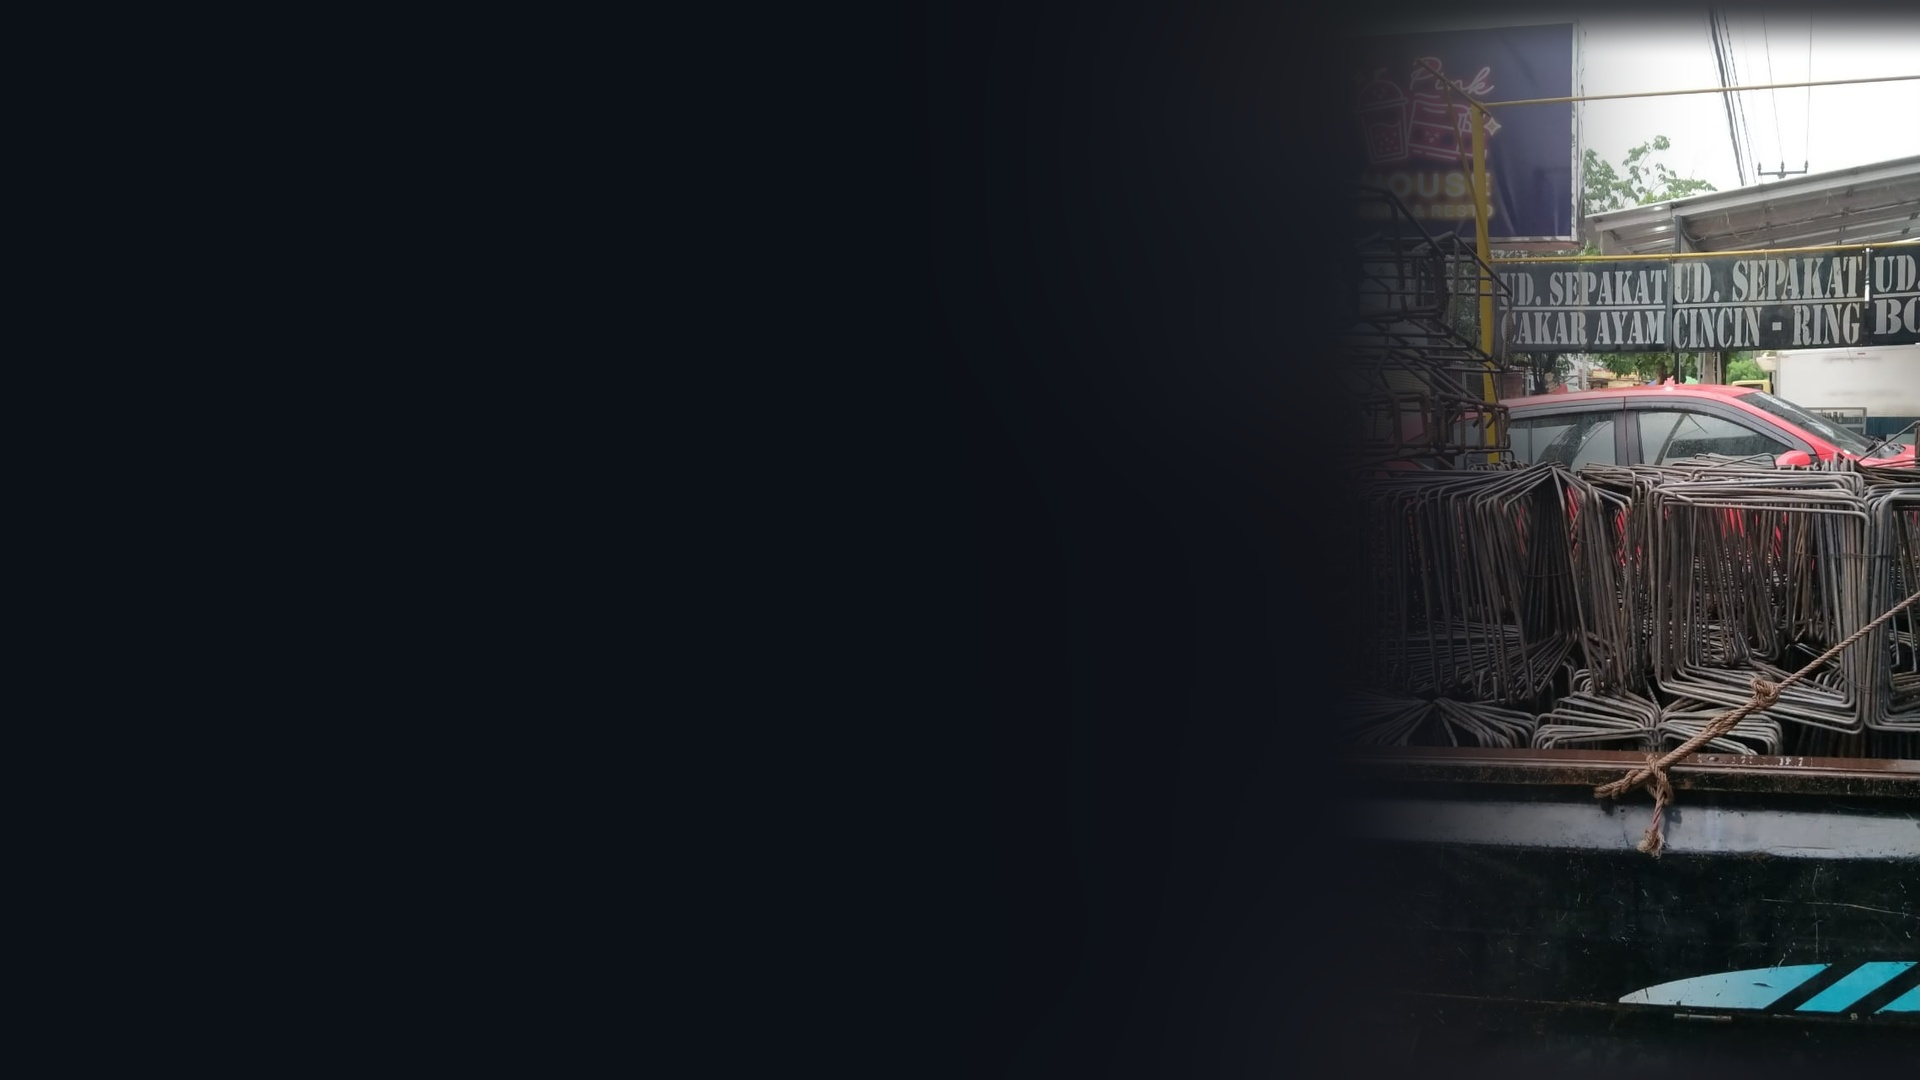
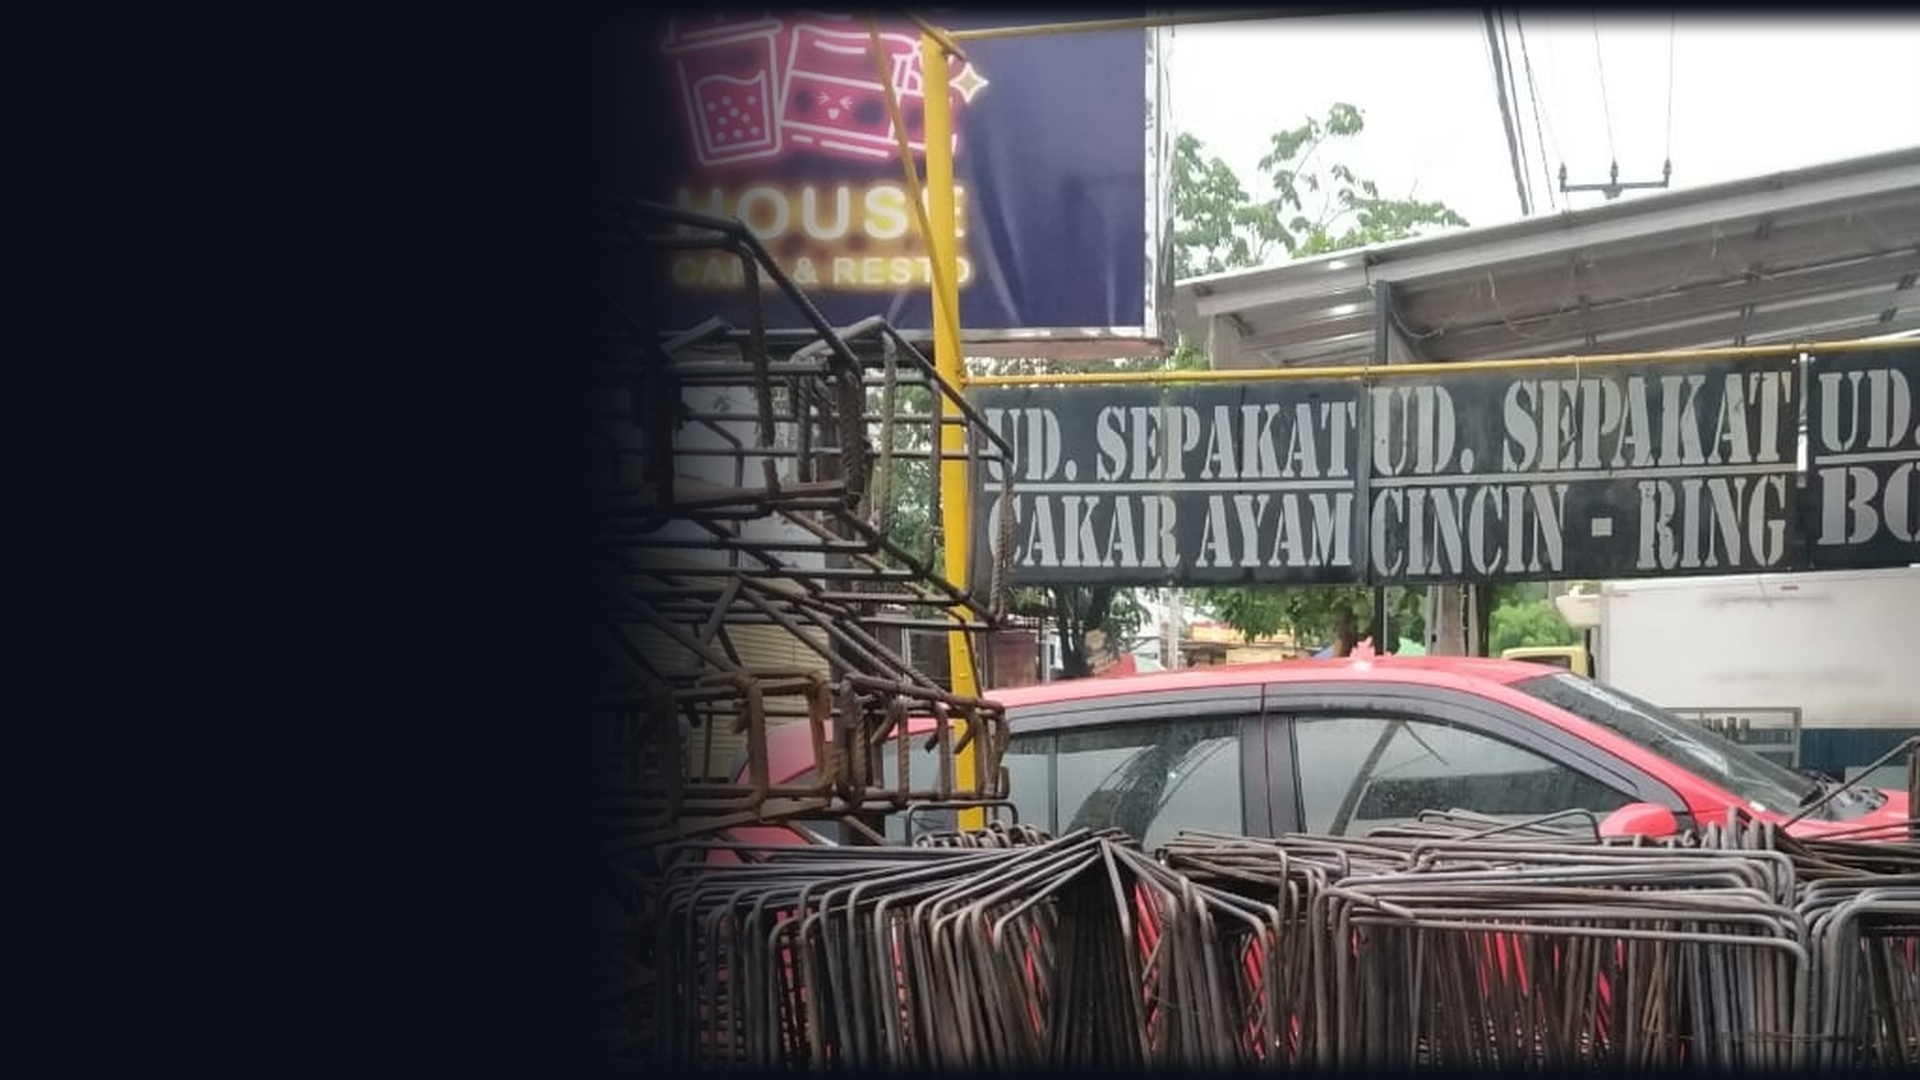
fix(hero): balance transition start position uniformly across all 5 slides so photos occupy full right 60% with wide visual presence

diff --git a/index.html b/index.html
@@ -481,7 +481,7 @@
         <div class="hero-slide" data-hero-slide="4" style="background-image: url('assets/hero_slide_user_5.jpg');"></div>
 
         <!-- Ultra-Smooth Progressive Gradient Overlays ensuring seamless melting into #0c1017 -->
-        <div class="absolute inset-0 z-[1] pointer-events-none" style="background: linear-gradient(to right, #0c1017 0%, #0c1017 30%, rgba(12,16,23,0.96) 42%, rgba(12,16,23,0.80) 56%, rgba(12,16,23,0.50) 70%, rgba(12,16,23,0.20) 84%, transparent 100%);"></div>
+        <div class="absolute inset-0 z-[1] pointer-events-none" style="background: linear-gradient(to right, #0c1017 0%, #0c1017 28%, rgba(12,16,23,0.92) 36%, rgba(12,16,23,0.60) 46%, rgba(12,16,23,0.15) 56%, transparent 64%);"></div>
         <div class="absolute inset-x-0 top-0 h-16 bg-gradient-to-b from-[#0c1017] to-transparent z-[1] pointer-events-none"></div>
         <div class="absolute inset-x-0 bottom-0 h-20 bg-gradient-to-t from-[#0c1017] to-transparent z-[1] pointer-events-none"></div>
       </div>
